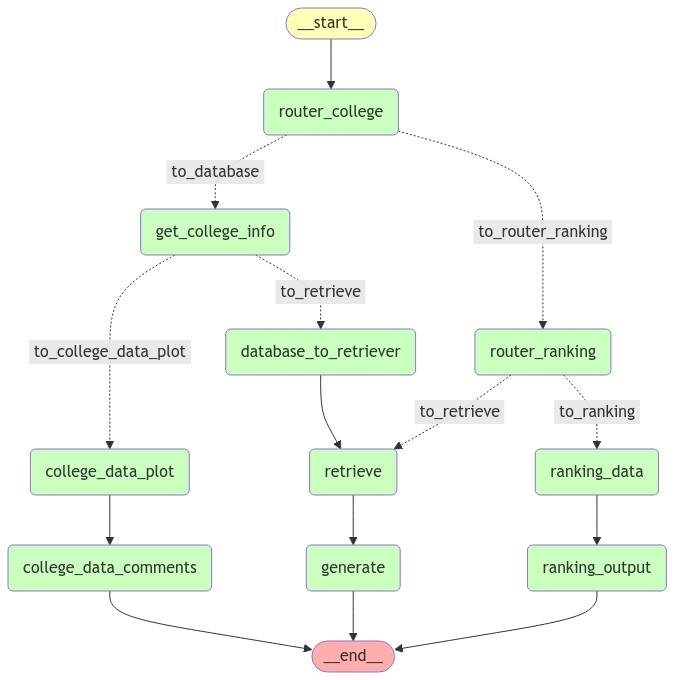
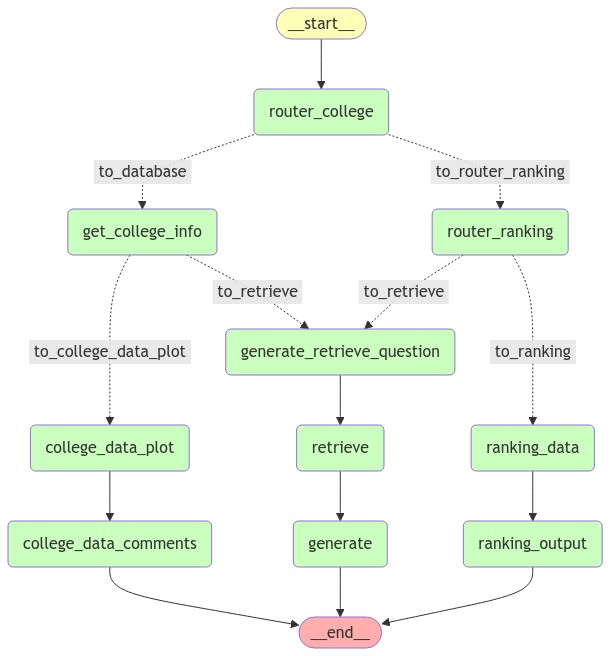
styling updates

diff --git a/main.py b/main.py
@@ -1,3 +1,5 @@
+"""Forward Pathway AI Chatbot."""
+
 import datetime
 import logging
 import os
@@ -47,6 +49,7 @@ language_question = ["语言选择：", "Languages:"]
 
 
 def change_language_fuc():
+    """Delete all messages after change the language."""
     if "messages" in st.session_state:
         del st.session_state["messages"]
 
@@ -70,6 +73,7 @@ else:
 
 
 def router_college(state: GraphState):
+    """Route the user's question to the college database or others."""
     structured_llm = llm.with_structured_output(CollegeRouter, method="json_schema")
     system_message = """你是一名熟悉美国大学的专家，下面将给出用户的一个问题，你需要判断用户的问题是否为某所特定大学的相关问题，Yes为相关问题，\
         No为不与美国大学相关。比如：哈佛大学排名，普林斯顿录取率等这类只包含一个学校名称的问题则回答Yes，\
@@ -86,14 +90,15 @@ def router_college(state: GraphState):
 
 
 def router_college_func(state: GraphState):
+    """Route the user's question to the college database or others."""
     if state["router_college_flag"] == "Yes":
         return "to_database"
     return "to_router_ranking"
 
 
 def router_ranking(state: GraphState):
-
-    structured_llm_router = llm.with_structured_output(RouteQuery)
+    """Route the user's question to the ranking database or others."""
+    structured_llm_router = llm.with_structured_output(RouteQuery, method="json_schema")
 
     # Prompt
     system = """
@@ -120,6 +125,7 @@ def router_ranking(state: GraphState):
 
 
 def router_ranking_func(state: GraphState):
+    """Route the user's question to the ranking database or others."""
     if state["router_ranking_flag"] == "vectorstore":
         return "to_retrieve"
     elif state["router_ranking_flag"] == "ranking":
@@ -127,6 +133,7 @@ def router_ranking_func(state: GraphState):
 
 
 def retrieve(state: GraphState):
+    """Retrieve the documents from the knowledge base."""
     # print("---RETRIEVE---")
     vector = TXTKnowledgeBase(
         txt_source_folder_path="lxbd"
@@ -150,6 +157,7 @@ def retrieve(state: GraphState):
 
 
 def generate(state: GraphState):
+    """Generate the answer to the user's question."""
     # print("---GENERATE---")
     question = state["question"]
     documents = state["documents"]
@@ -172,6 +180,7 @@ def generate(state: GraphState):
 
 
 def get_college_info(state: GraphState):
+    """Get the college information from the database."""
     # print("---COLLEGE NAME---")
 
     college_data = CollegesData()
@@ -190,7 +199,9 @@ def get_college_info(state: GraphState):
     )
     college_name_chain = prompt | llm | StrOutputParser()
 
-    college_info_structured_output = llm.with_structured_output(College_Info)
+    college_info_structured_output = llm.with_structured_output(
+        College_Info, method="json_schema"
+    )
     prompt = ChatPromptTemplate.from_messages(
         [
             (
@@ -220,6 +231,7 @@ def get_college_info(state: GraphState):
 
 
 def database_router_func(state: GraphState):
+    """Route the user's question to the college database or others."""
     post_id = state["college_info"].postid
     if (
         state["college_info"].data_type
@@ -242,6 +254,7 @@ def database_router_func(state: GraphState):
 
 
 def college_data_plot(state: GraphState):
+    """Get the college data from the database."""
     question = state["question"]
     college_info = state["college_info"]
     dataURLs = {
@@ -411,6 +424,7 @@ def college_data_plot(state: GraphState):
 
 # Plot College Data
 def plot_college_data(df, data_type):
+    """Plot the college data."""
     with st.chat_message("assistant", avatar=avatars["assistant"]):
         fig, ax = plt.subplots(figsize=(9, 4))
         if data_type == "排名":
@@ -745,6 +759,7 @@ def plot_college_data(df, data_type):
 
 
 def college_data_comments(state: GraphState):
+    """Generate the comments for the college data."""
     df = state["data"]
     data_type = state["college_info"].data_type
     college_cname = state["college_info"].cname
@@ -771,7 +786,8 @@ def college_data_comments(state: GraphState):
     return {"generation": generation}
 
 
-def database_to_retriever(state: GraphState):
+def generate_retrieve_question(state: GraphState):
+    """Reroute the user's question from database to the RAG."""
     question = state["question"]
     prompt = ChatPromptTemplate.from_messages(
         [
@@ -788,6 +804,7 @@ def database_to_retriever(state: GraphState):
 
 
 def ranking_data(state: GraphState):
+    """Get the ranking data from the database."""
     question = state["question"]
     chat_history = state["chat_history"]
     available_types = CollegeRanking.get_ranking_types()
@@ -831,6 +848,7 @@ def ranking_data(state: GraphState):
 
 
 def ranking_output(state: GraphState):
+    """Generate the ranking response."""
     ranking_df = state["ranking_df"]
     ranking_year = state["ranking_year"]
     ranking_type = state["ranking_type"]
@@ -843,20 +861,22 @@ def ranking_output(state: GraphState):
             (
                 "system",
                 """基于下面的排名数据和用户的问题，生成一个回答，回答要求如下：
-                1. 生成回答时的排名类型请按照提供的排名数据类型为准，只会有学校排名和学院排名，不会细分到专业排名。
-                2. 如果提供的排名数据类型位美国大学排名，则生成美国大学排名表格，\
-                    同时告诉用户细分项类别的排名请参考美国续航教育的美国大学排名页面：https://www.forwardpathway.com/ranking。
-                3. 如果提供的排名数据类型为学院排名，而用户提问的排名类型位专业排名，则生成学院排名表格，\
-                    同时告诉用户细分项类别的排名请参考美国续航教育的美国大学排名页面：https://www.forwardpathway.com/ranking。
-                4. 如果提供的排名数据类型为学院排名，而用户提问的排名类型同样是学院排名，则生成学院排名表格。\
-                    同时告诉用户其他类别的排名请参考美国续航教育的美国大学排名页面：https://www.forwardpathway.com/ranking。
-                5. 如无特殊要求的，生成排名表格只输出前10名的数据。
+                1. 生成的表明表格提供排名，中文名，英文名三栏，
+                2. 如无特殊要求的，生成排名表格只输出前10名的数据。
+                3. 生成回答时的排名类型、排名年份请按照提供的排名数据类型和排名年份为准，只会有美国大学排名和学院排名，不会细分到专业排名。
+                4. 如果提供的排名数据类型位美国大学排名，则生成美国大学排名表格，\
+                    在表格后要告诉用户细分项类别的排名请参考美国续航教育的美国大学排名页面：https://www.forwardpathway.com/ranking。
+                5. 如果提供的排名数据类型为学院排名，而用户提问的排名类型位专业排名，则生成学院排名表格，\
+                    在表格后要告诉用户细分项类别的排名请参考美国续航教育的美国大学排名页面：https://www.forwardpathway.com/ranking。
+                6. 如果提供的排名数据类型为学院排名，而用户提问的排名类型同样是学院排名，则生成学院排名表格。\
+                    在表格后要告诉用户其他类别的排名请参考美国续航教育的美国大学排名页面：https://www.forwardpathway.com/ranking。
+                \n\n排名年份：{ranking_year}\n\n排名类型：{ranking_type}\
+                    \n\n排名数据如下：{ranking_df}
                 """,
             ),
             (
                 "human",
-                "用户问题如下：{question}\n\n历史聊天记录如下：{chat_history}\n\n排名年份：{ranking_year}\n\n排名类型：{ranking_type}\
-                    \n\n排名数据如下：{ranking_df}",
+                "用户问题如下：{question}\n\n历史聊天记录如下：{chat_history}",
             ),
         ]
     )
@@ -888,7 +908,7 @@ workflow.add_node("get_college_info", get_college_info)
 workflow.add_node("generate", generate)
 workflow.add_node("college_data_plot", college_data_plot)
 workflow.add_node("college_data_comments", college_data_comments)
-workflow.add_node("database_to_retriever", database_to_retriever)
+workflow.add_node("generate_retrieve_question", generate_retrieve_question)
 workflow.add_node("ranking_data", ranking_data)
 workflow.add_node("ranking_output", ranking_output)
 
@@ -905,7 +925,7 @@ workflow.add_conditional_edges(
     "router_ranking",
     router_ranking_func,
     {
-        "to_retrieve": "retrieve",
+        "to_retrieve": "generate_retrieve_question",
         "to_ranking": "ranking_data",
     },
 )
@@ -918,11 +938,11 @@ workflow.add_conditional_edges(
     database_router_func,
     {
         "to_college_data_plot": "college_data_plot",
-        "to_retrieve": "database_to_retriever",
+        "to_retrieve": "generate_retrieve_question",
     },
 )
 
-workflow.add_edge("database_to_retriever", "retrieve")
+workflow.add_edge("generate_retrieve_question", "retrieve")
 workflow.add_edge("college_data_plot", "college_data_comments")
 workflow.add_edge("college_data_comments", END)
 workflow.add_edge("ranking_data", "ranking_output")
@@ -931,6 +951,7 @@ app = workflow.compile()
 
 
 def draw_graph_png():
+    """Draw the graph of the LangChain."""
     from langchain_core.runnables.graph import (CurveStyle, MermaidDrawMethod,
                                                 NodeStyles)
 
@@ -948,8 +969,6 @@ def draw_graph_png():
 
 
 draw_graph_png()
-
-
 # Build Streamlit APP
 with st.sidebar:
     st.subheader(lang_dict["more"], divider="rainbow")

diff --git a/utilities/ranking.py b/utilities/ranking.py
@@ -1,3 +1,5 @@
+"""This module contains the CollegeRanking class which is used to query the database for college rankings."""
+
 import os
 
 import pandas as pd
@@ -7,11 +9,14 @@ from utilities.schema import RankingType
 
 
 class CollegeRanking:
+    """This class is used to query the database for college rankings."""
+
     def __init__(self):
+        """Initialize the CollegeRanking class."""
         pass
 
     def get_ranking_types():
-        # Connect to the database
+        """Return the ranking types."""
         connection = pymysql.connect(
             db=os.environ["db_name"],
             user=os.environ["db_user"],
@@ -35,7 +40,7 @@ class CollegeRanking:
         return ranking_types_df
 
     def get_usnews_ranking():
-        # Connect to the database
+        """Return the US News ranking."""
         connection = pymysql.connect(
             db=os.environ["db_name"],
             user=os.environ["db_user"],
@@ -52,12 +57,12 @@ class CollegeRanking:
             ranking_year = row["ranking"]
 
             cursor.execute(
-                """SELECT t1.rank, t2.cname, t2.name as ename 
+                """SELECT t1.rank, t2.cname, t2.name as ename
                    FROM fp_ranking.us_rankings t1
                    JOIN fp_ranking.colleges t2 ON t2.postid = t1.postid
-                   WHERE t1.year = (SELECT MAX(year) FROM fp_ranking.us_rankings WHERE type = 1) 
+                   WHERE t1.year = (SELECT MAX(year) FROM fp_ranking.us_rankings WHERE type = 1)
                    AND t1.type = 1
-                   ORDER BY t1.rank ASC 
+                   ORDER BY t1.rank ASC
                    LIMIT 50"""
             )
             usnews_ranking = cursor.fetchall()
@@ -68,7 +73,7 @@ class CollegeRanking:
         return (ranking_year, usnews_ranking_df)
 
     def get_major_ranking(ranking_type: RankingType):
-        # Connect to the database
+        """Return the major ranking."""
         connection = pymysql.connect(
             db=os.environ["db_name"],
             user=os.environ["db_user"],

diff --git a/utilities/schema.py b/utilities/schema.py
@@ -1,3 +1,5 @@
+"""This module defines the data models schema."""
+
 from typing import List, Literal, Optional, TypedDict
 
 import pandas as pd
@@ -5,6 +7,8 @@ from pydantic import BaseModel, Field
 
 
 class College_Info(BaseModel):
+    """Represents the college information."""
+
     cname: str = Field(description="学校中文全名")
     ename: str = Field(description="学校英文全名")
     postid: str = Field(description="学校的postid")
@@ -16,13 +20,11 @@ class College_Info(BaseModel):
 
 
 class RankingType(BaseModel):
+    """Represents the ranking type."""
+
     school: Optional[str] = Field(description="学院名称、专业大类名称")
     level: Literal["本科", "研究生"] = Field(description="本科、研究生")
     year: Optional[int] = Field(description="排名年份")
-
-
-class RankingTypeRow(BaseModel):
-    row: int
 
 
 class GraphState(TypedDict):
@@ -54,13 +56,15 @@ class GraphState(TypedDict):
 
 
 class CollegeRouter(BaseModel):
+    """基于用户的查询词条选择是否为单所大学相关问题."""
+
     college: Literal["Yes", "No"] = Field(
         description="回答是否为某所特定大学相关问题，Yes为某所大学相关问题，No为不相关"
     )
 
 
 class RouteQuery(BaseModel):
-    """基于用户的查询词条选择最相关的资料来源"""
+    """基于用户的查询词条选择最相关的资料来源，vectorstore或者ranking."""
 
     router: Literal["vectorstore", "ranking"] = Field(
         description="基于用户的问题选择vectrostore或者ranking。"
